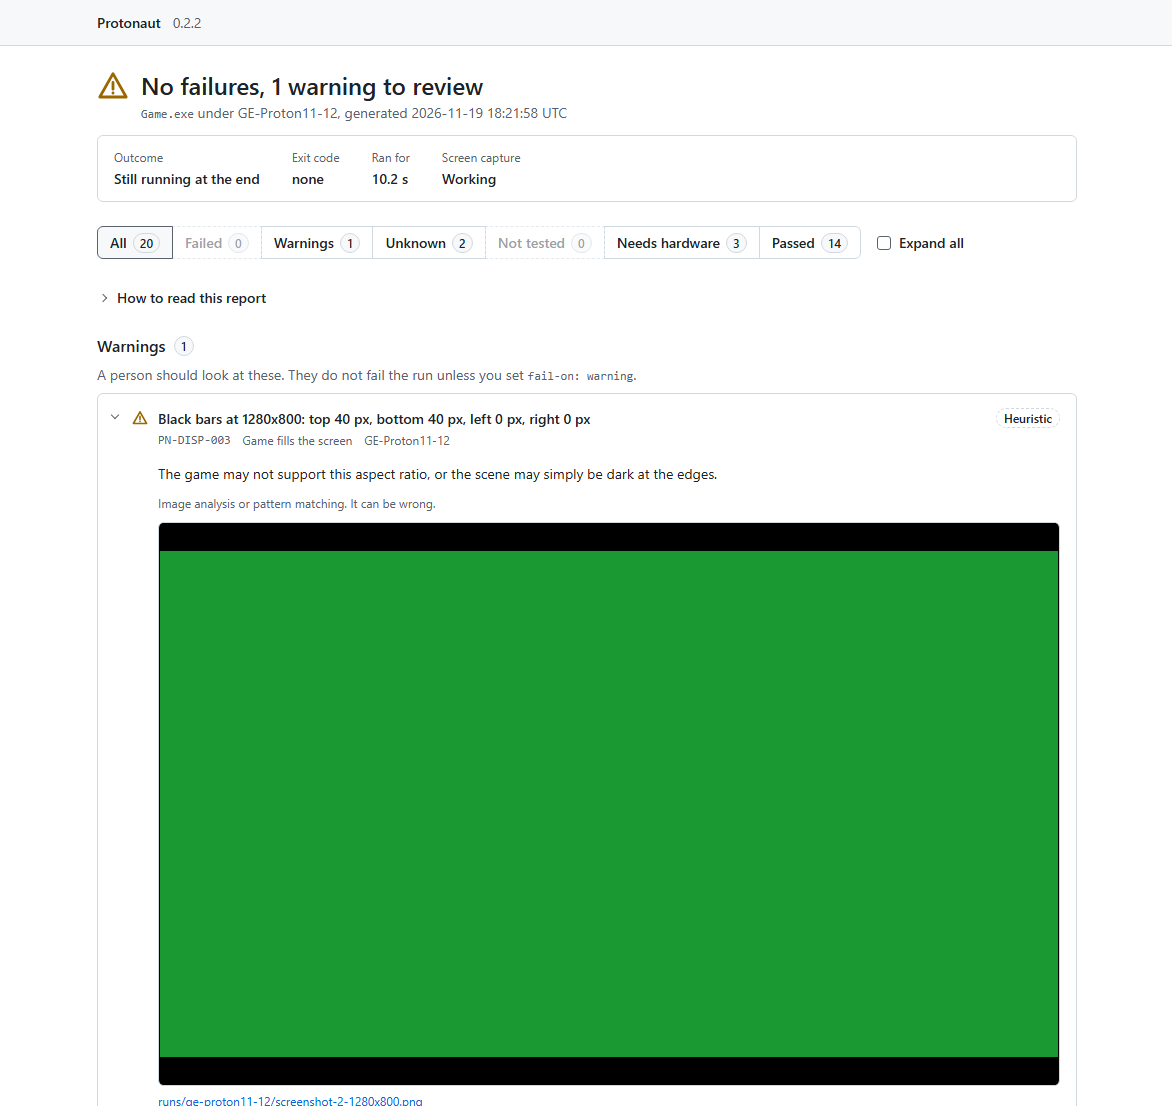
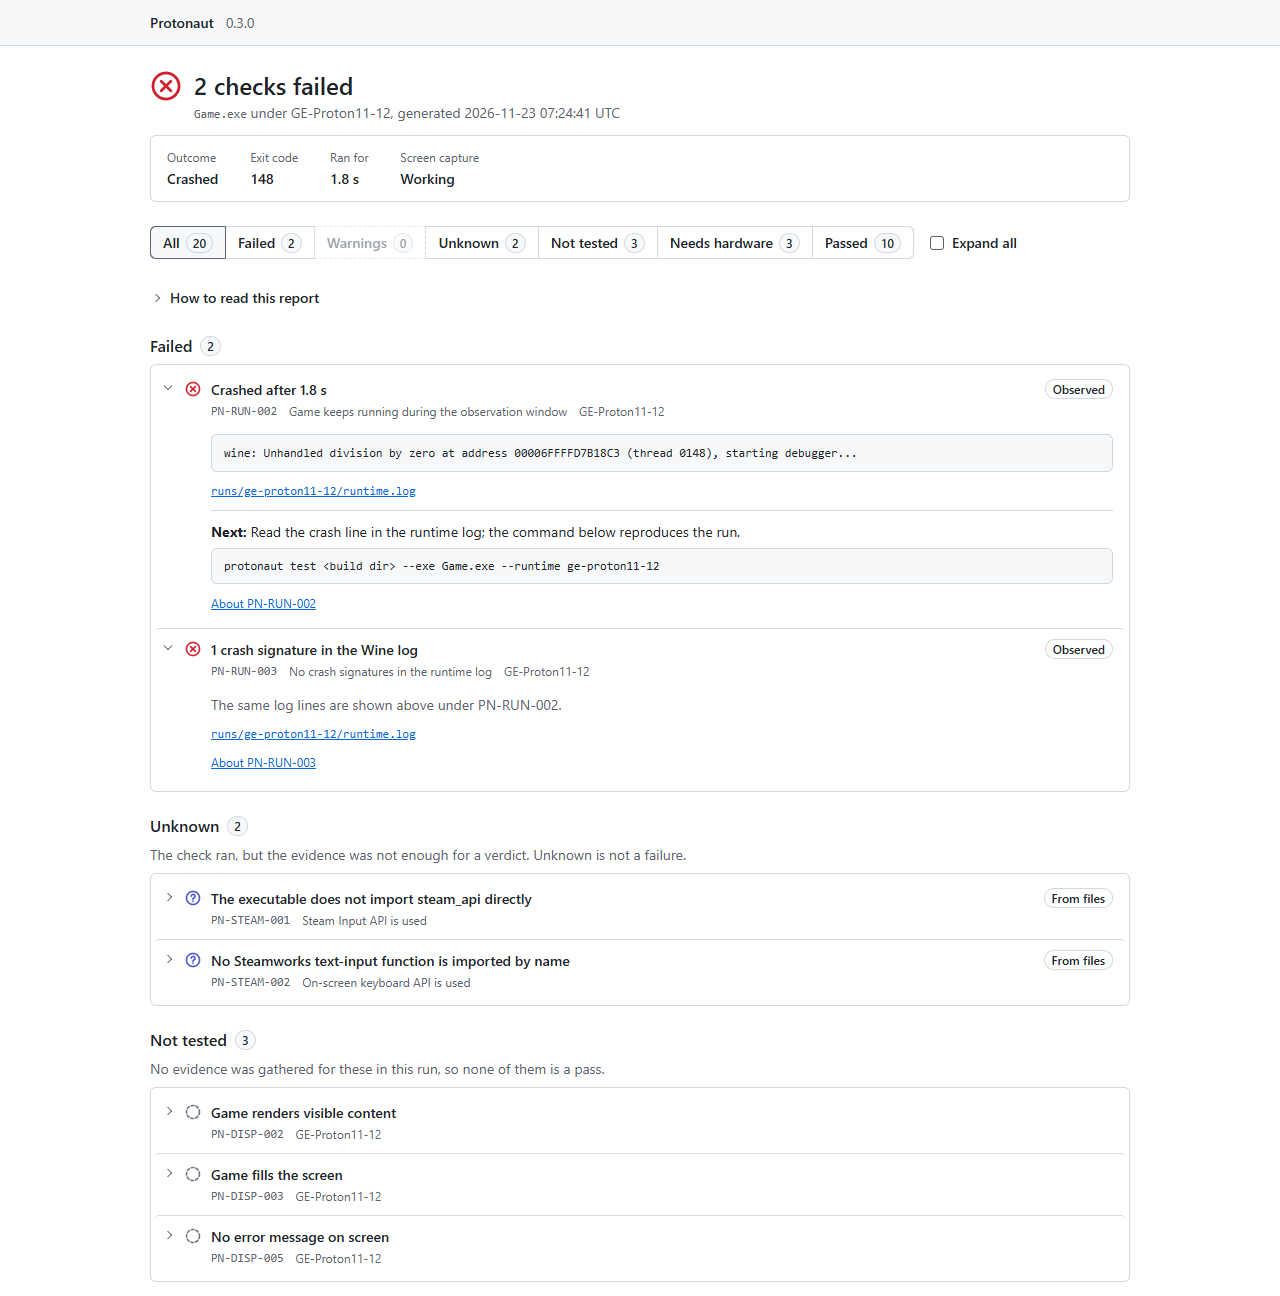
Replace the README screenshots and GIF

diff --git a/README.md b/README.md
@@ -20,7 +20,9 @@ Protonaut runs your build under pinned GE-Proton on a headless Linux display in 
 [All checks](docs/reference/checks.md) ·
 [Changelog](CHANGELOG.md)
 
-<img src="docs/assets/demo.gif" alt="A terminal running protonaut test on a build that crashes under Proton. The run ends with two failures." width="860">
+<img src="docs/assets/demo.gif" alt="A terminal running protonaut test on a build that crashes under Proton. It ends with two failures and the Wine crash line, the checks that could not be tested, a next step and a command to reproduce the run." width="860">
+
+<sub>Recorded in a GitHub Actions run with Protonaut 0.3.0, sped up while the game runs.</sub>
 
 </div>
 
@@ -63,9 +65,9 @@ Protonaut narrows what reaches a person. It does not replace the review or a dev
 
 ## What it catches
 
-<img src="docs/assets/pr-comment.png" alt="A pull request comment from Protonaut: two failed crash checks with the Wine log line, three checks not tested because the game exited before the first frame, and a command to reproduce the run" width="676">
+<img src="docs/assets/pr-comment.png" alt="Protonaut's pull request comment in GitHub's light and dark themes: two failed crash checks with the Wine log line, three checks not tested because the game exited before the first frame, and a command to reproduce the run" width="860">
 
-<sub>The comment for this project's crashing test build, rendered from a real CI run. The build is one of the project's test programs, not a real game. The [demo pull request](https://github.com/Mahan-Imanian/protonaut-demo/pull/1) shows comments live.</sub>
+<sub>The 0.3.0 comment for this project's crashing test build, from a real CI run, in GitHub's light and dark themes. The build is one of the project's test programs, not a real game. The [demo pull request](https://github.com/Mahan-Imanian/protonaut-demo/pull/1) shows comments live.</sub>
 
 | | Examples |
 |---|---|
@@ -88,7 +90,7 @@ Besides synthetic fixtures, CI runs open-source games through the action:
 
 Results and screenshots are in [real-games.md](docs/compatibility/real-games.md). The testing also found a useful failure: OpenTTD without its graphics set keeps running while it shows a fatal error inside its own window. `PN-DISP-005` now reads the screen with OCR and reports text like that as a warning.
 
-![Protonaut's HTML report showing a letterboxed frame flagged as a warning, with the captured screenshot](docs/images/report.png)
+![Protonaut's HTML report for the crashing test build: 2 checks failed, the Wine crash line, a command to reproduce the run, and the checks that could not be tested](docs/images/report.png)
 
 ## How it works
 
